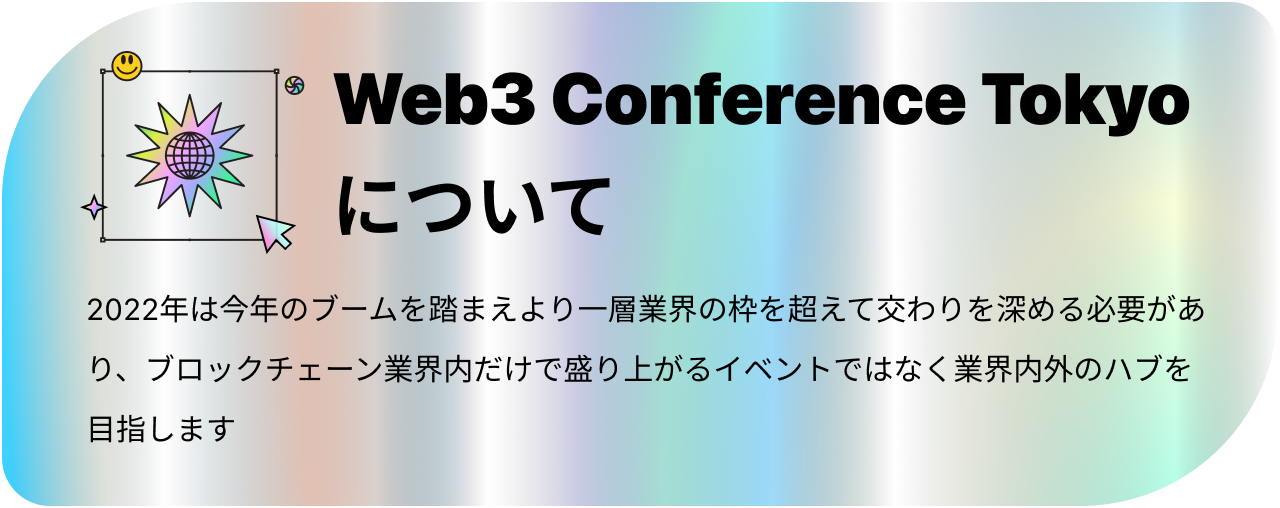
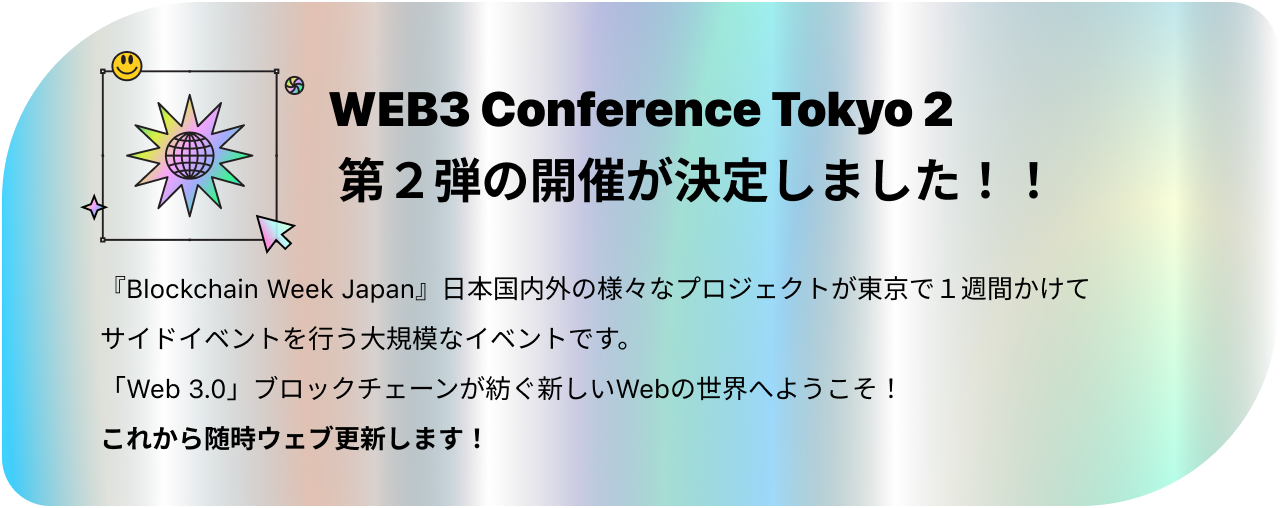
fix: fix

Changed region(s): [[0.0625, 0.5315, 0.9375, 0.8858], [0.25, 0.1476, 0.9375, 0.2657], [0.25, 0.2953, 0.8125, 0.4724]]

diff --git a/components/Banner.tsx b/components/Banner.tsx
@@ -1,5 +1,6 @@
 import type { NextPage } from "next";
-import TitleImg from "../assets/title.png";
+import TitleHead from "../assets/title_head.png";
+import TitleMain from "../assets/title_main.png";
 import LaserIcon from "../assets/laser_icon.svg";
 import style from "../styles/Banner.module.css";
 import MobileHeroSubJa from "../assets/mobileHeroSubJa.png";
@@ -53,15 +54,20 @@ const Banner: NextPage = () => {
         <div className={style.ast}>
           <Image src={AstImg} />
         </div>
-        <div className={style.title}>
-          <Image src={TitleImg} />
+        <div>
+          <div className={style.titleHead}>
+            <Image src={TitleHead} />
+          </div>
+          <div className={style.titleMain}>
+            <Image className={style.titleMain} src={TitleMain} />
+          </div>
         </div>
         <div className={style.titleSub}>
-          <div className={style.titleSubContent}>
+          {/* <div className={style.titleSubContent}>
             {t("banner_3")}
             <span className={style.divider}>|</span>
             {t("banner_4")}
-          </div>
+          </div> */}
           <div
             onClick={() => jumpHref("youtube")}
             className={style.titleSubBtn}

diff --git a/styles/Banner.module.css b/styles/Banner.module.css
@@ -16,8 +16,12 @@
   flex-direction: column;
   align-items: flex-start;
 }
-.title {
-  max-width: 70%;
+.titleHead {
+  width: 30%
+}
+.titleMain{
+  width: 70%;
+  transform: translateY(-5%);
 }
 .titleSub {
   display: flex;
@@ -78,7 +82,7 @@
 
 .LaserContentTitle {
   color: #000000;
-  font-size: 36px;
+  font-size: 24px;
   margin-bottom: 7px;
 }
 .LaserContentText {
@@ -90,8 +94,8 @@
 .ast {
   max-width: 25%;
   position: absolute;
-  top: 0;
-  left: 60%;
+  top: 5%;
+  left: 55%;
   animation: float 8s ease-in-out infinite alternate;
   pointer-events: none;
 }

diff --git a/components/VideoAchive.tsx b/components/VideoAchive.tsx
@@ -17,7 +17,10 @@ const VideoAchive: NextPage = () => {
           <div className={style.left_title}>
             <Image src={LeftImage} />
           </div>
-          <div className={style.left_sub}>{t("video_2_t")}</div>
+          <div className={style.left_sub}>
+            <div> Web3 Conference Tokyo</div>
+            {t("video_2_t")}
+          </div>
           <a
             href={maskYoutubeChannelUrl}
             target="_blank"

diff --git a/components/Layout.tsx b/components/Layout.tsx
@@ -28,9 +28,9 @@ const Layout: NextPage = () => {
     <div id="layout" className={style.container}>
       <Topbar />
       <Banner />
+      <VideoAchive />
       <TimeTable />
       <Roles />
-      <VideoAchive />
       <Sponsor />
       <Footer />
     </div>
